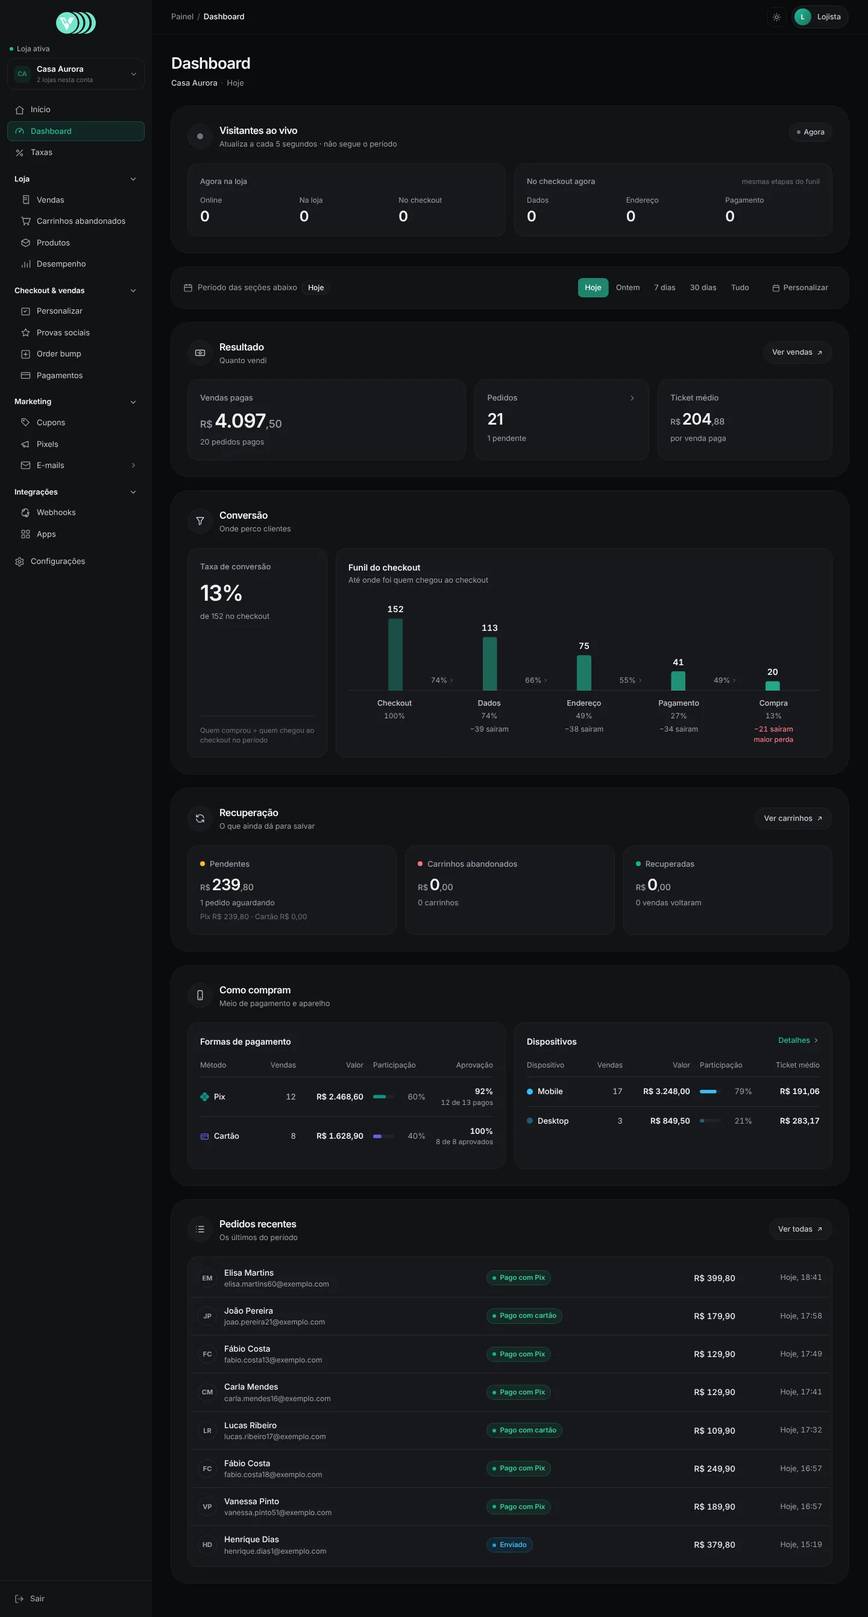
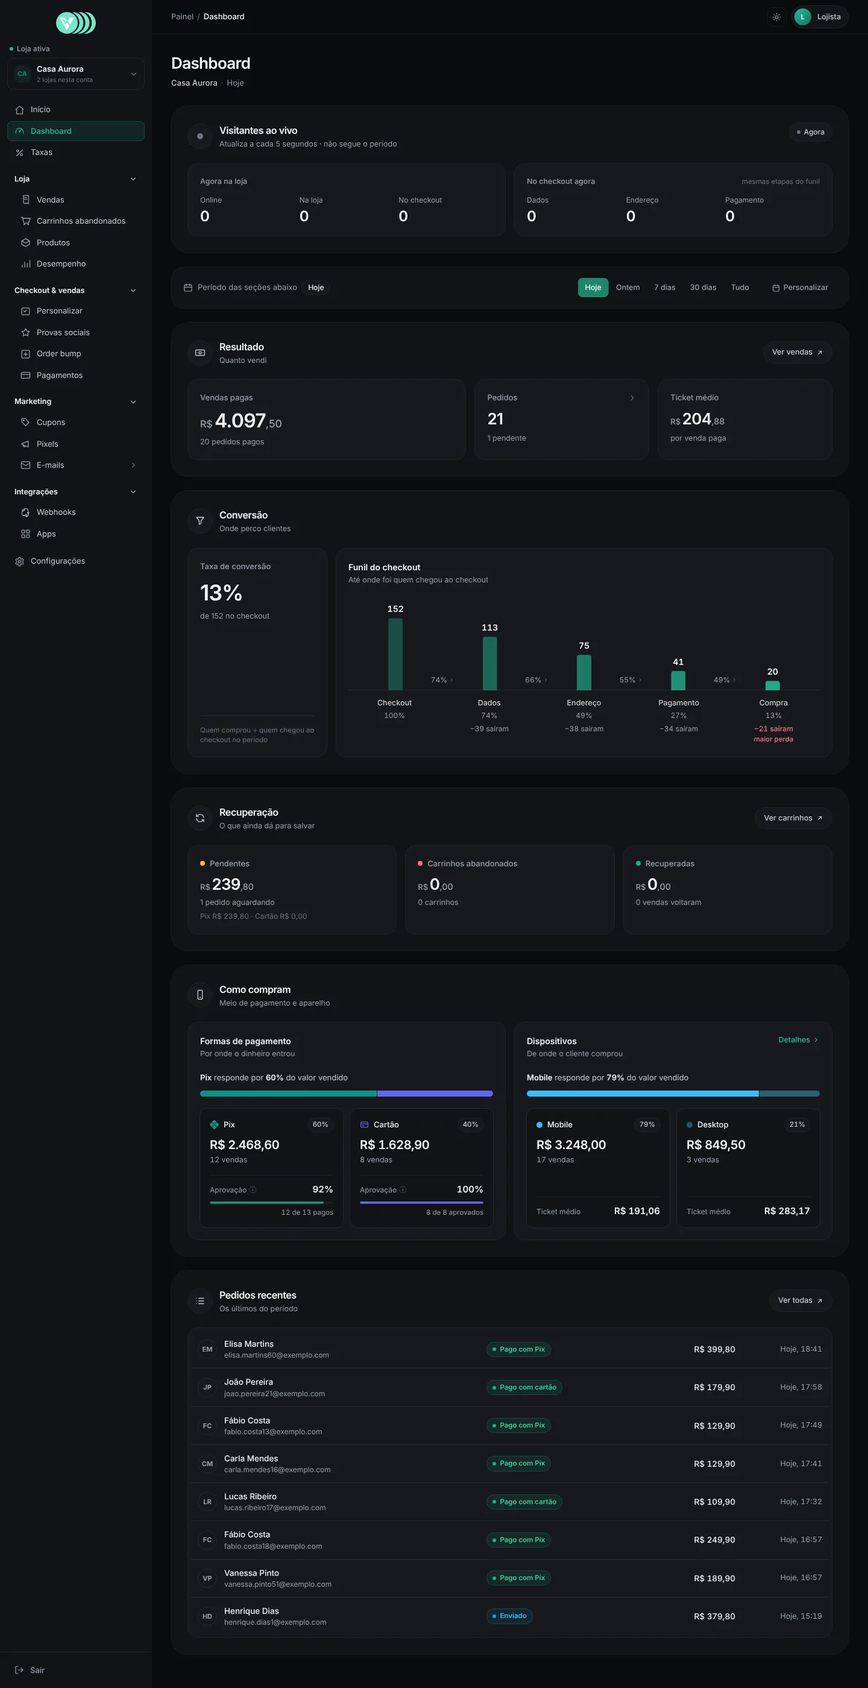
Como compram: divisão em barra de 100% e blocos por item
Formas de pagamento e Dispositivos deixam a tabela de cinco colunas:
- frase-resumo de quem lidera e barra única com a fatia de cada item
- um bloco por item: valor em destaque, vendas, fatia e o indicador
  próprio (aprovação com barrinha e nota; ticket médio)
- lado a lado só em telas largas; no notebook e no celular, empilhados

Claude-Session: https://claude.ai/code/session_01Mj6yowmnasuG43TB7WhMV6

diff --git a/index.html b/index.html
@@ -38,7 +38,7 @@ main{padding:22px 28px 60px;min-width:0}
 <main><div class="top"><h1 id="t"></h1><span class="ver" id="v" hidden></span><span class="rota" id="r"></span><div class="nav"><button id="ant">← Anterior</button><button id="prox">Próxima →</button></div></div>
 <div class="shot" id="s"><img id="i" alt=""></div><div class="dica">Telas com chave na coluna têm duas versões: ligada mostra o layout novo, desligada o antigo. Para pedir um ajuste, diga o nome da tela e o que mudar.</div></main></div>
 <script>
-const D=[{"id": "painel-dashboard", "grupo": "Painel do lojista", "titulo": "Dashboard", "rota": "/painel", "img": "telas/painel-dashboard.webp", "w": 1440, "h": 2681, "mobile": false, "antigo": {"img": "telas/painel-dashboard-antigo.webp", "w": 1440, "h": 1708}}, {"id": "painel-inicio", "grupo": "Painel do lojista", "titulo": "Início", "rota": "/painel/inicio", "img": "telas/painel-inicio.webp", "w": 1440, "h": 1024, "mobile": false}, {"id": "painel-vendas", "grupo": "Painel do lojista", "titulo": "Vendas", "rota": "/painel/vendas", "img": "telas/painel-vendas.webp", "w": 1440, "h": 1024, "mobile": false}, {"id": "painel-carrinhos", "grupo": "Painel do lojista", "titulo": "Carrinhos abandonados", "rota": "/painel/carrinhos", "img": "telas/painel-carrinhos.webp", "w": 1440, "h": 1038, "mobile": false}, {"id": "painel-desempenho", "grupo": "Painel do lojista", "titulo": "Desempenho", "rota": "/painel/desempenho", "img": "telas/painel-desempenho.webp", "w": 1440, "h": 1024, "mobile": false}, {"id": "painel-dispositivos", "grupo": "Painel do lojista", "titulo": "Dispositivos", "rota": "/painel/dispositivos", "img": "telas/painel-dispositivos.webp", "w": 1440, "h": 1024, "mobile": false}, {"id": "painel-produtos", "grupo": "Painel do lojista", "titulo": "Produtos", "rota": "/painel/produtos", "img": "telas/painel-produtos.webp", "w": 1440, "h": 1024, "mobile": false}, {"id": "painel-criptografia", "grupo": "Painel do lojista", "titulo": "Criptografia", "rota": "/painel/criptografia", "img": "telas/painel-criptografia.webp", "w": 1440, "h": 1090, "mobile": false}, {"id": "painel-cupons", "grupo": "Painel do lojista", "titulo": "Cupons", "rota": "/painel/cupons", "img": "telas/painel-cupons.webp", "w": 1440, "h": 1024, "mobile": false}, {"id": "painel-order-bump", "grupo": "Painel do lojista", "titulo": "Order bump", "rota": "/painel/order-bump", "img": "telas/painel-order-bump.webp", "w": 1440, "h": 1024, "mobile": false}, {"id": "painel-provas-sociais", "grupo": "Painel do lojista", "titulo": "Provas sociais", "rota": "/painel/provas-sociais", "img": "telas/painel-provas-sociais.webp", "w": 1440, "h": 1024, "mobile": false}, {"id": "painel-personalizar", "grupo": "Painel do lojista", "titulo": "Personalizar checkout", "rota": "/painel/personalizar", "img": "telas/painel-personalizar.webp", "w": 1440, "h": 1024, "mobile": false}, {"id": "painel-pagamentos", "grupo": "Painel do lojista", "titulo": "Pagamentos", "rota": "/painel/pagamentos", "img": "telas/painel-pagamentos.webp", "w": 1440, "h": 1419, "mobile": false}, {"id": "painel-pixels", "grupo": "Painel do lojista", "titulo": "Pixels", "rota": "/painel/pixels", "img": "telas/painel-pixels.webp", "w": 1440, "h": 1024, "mobile": false}, {"id": "painel-emails", "grupo": "Painel do lojista", "titulo": "E-mails", "rota": "/painel/emails", "img": "telas/painel-emails.webp", "w": 1440, "h": 1715, "mobile": false}, {"id": "painel-webhooks", "grupo": "Painel do lojista", "titulo": "Webhooks", "rota": "/painel/webhooks", "img": "telas/painel-webhooks.webp", "w": 1440, "h": 1024, "mobile": false}, {"id": "painel-dominio", "grupo": "Painel do lojista", "titulo": "Domínio", "rota": "/painel/dominio", "img": "telas/painel-dominio.webp", "w": 1440, "h": 1024, "mobile": false}, {"id": "painel-shopify", "grupo": "Painel do lojista", "titulo": "Shopify", "rota": "/painel/shopify", "img": "telas/painel-shopify.webp", "w": 1440, "h": 1024, "mobile": false}, {"id": "painel-apps", "grupo": "Painel do lojista", "titulo": "Apps", "rota": "/painel/apps", "img": "telas/painel-apps.webp", "w": 1440, "h": 1024, "mobile": false}, {"id": "painel-taxas", "grupo": "Painel do lojista", "titulo": "Taxas", "rota": "/painel/taxas", "img": "telas/painel-taxas.webp", "w": 1440, "h": 1024, "mobile": false}, {"id": "painel-plano", "grupo": "Painel do lojista", "titulo": "Plano", "rota": "/painel/plano", "img": "telas/painel-plano.webp", "w": 1440, "h": 1024, "mobile": false}, {"id": "painel-seguranca", "grupo": "Painel do lojista", "titulo": "Segurança", "rota": "/painel/seguranca", "img": "telas/painel-seguranca.webp", "w": 1440, "h": 2548, "mobile": false}, {"id": "painel-configuracoes", "grupo": "Painel do lojista", "titulo": "Configurações", "rota": "/painel/configuracoes", "img": "telas/painel-configuracoes.webp", "w": 1440, "h": 1024, "mobile": false}, {"id": "painel-detalhe-venda", "grupo": "Painel do lojista", "titulo": "Detalhe da venda", "rota": "/painel/vendas/101044fc-720e-4f02-a70a-a1bbfcc3d4ec", "img": "telas/painel-detalhe-venda.webp", "w": 1440, "h": 1024, "mobile": false}, {"id": "painel-caixa-de-emails", "grupo": "Painel do lojista", "titulo": "Caixa de e-mails", "rota": "/painel/emails/caixa", "img": "telas/painel-caixa-de-emails.webp", "w": 1440, "h": 1090, "mobile": false}, {"id": "admin-visao-geral", "grupo": "Admin da plataforma", "titulo": "Visão geral", "rota": "/admin", "img": "telas/admin-inicio.webp", "w": 1440, "h": 1430, "mobile": false}, {"id": "admin-lojas", "grupo": "Admin da plataforma", "titulo": "Lojas", "rota": "/admin/lojas", "img": "telas/admin-lojas.webp", "w": 1440, "h": 900, "mobile": false}, {"id": "admin-usuarios", "grupo": "Admin da plataforma", "titulo": "Usuários", "rota": "/admin/usuarios", "img": "telas/admin-usuarios.webp", "w": 1440, "h": 900, "mobile": false}, {"id": "admin-clientes", "grupo": "Admin da plataforma", "titulo": "Clientes", "rota": "/admin/clientes", "img": "telas/admin-clientes.webp", "w": 1440, "h": 1958, "mobile": false}, {"id": "admin-transacoes", "grupo": "Admin da plataforma", "titulo": "Transações", "rota": "/admin/transacoes", "img": "telas/admin-transacoes.webp", "w": 1440, "h": 1994, "mobile": false}, {"id": "admin-taxas", "grupo": "Admin da plataforma", "titulo": "Taxas", "rota": "/admin/taxas", "img": "telas/admin-taxas.webp", "w": 1440, "h": 900, "mobile": false}, {"id": "admin-assinaturas", "grupo": "Admin da plataforma", "titulo": "Assinaturas", "rota": "/admin/assinaturas", "img": "telas/admin-assinaturas.webp", "w": 1440, "h": 900, "mobile": false}, {"id": "admin-relatorios", "grupo": "Admin da plataforma", "titulo": "Relatórios", "rota": "/admin/relatorios", "img": "telas/admin-relatorios.webp", "w": 1440, "h": 907, "mobile": false}, {"id": "admin-emails", "grupo": "Admin da plataforma", "titulo": "E-mails", "rota": "/admin/emails", "img": "telas/admin-emails.webp", "w": 1440, "h": 900, "mobile": false}, {"id": "admin-configuracoes", "grupo": "Admin da plataforma", "titulo": "Configurações", "rota": "/admin/configuracoes", "img": "telas/admin-configuracoes.webp", "w": 1440, "h": 1286, "mobile": false}, {"id": "celular-dashboard", "grupo": "Painel no celular", "titulo": "Dashboard", "rota": "/painel", "img": "telas/celular-dashboard.webp", "w": 390, "h": 3775, "mobile": true, "antigo": {"img": "telas/celular-dashboard-antigo.webp", "w": 390, "h": 2945}}, {"id": "celular-inicio", "grupo": "Painel no celular", "titulo": "Início", "rota": "/painel/inicio", "img": "telas/celular-inicio.webp", "w": 390, "h": 2208, "mobile": true}, {"id": "celular-vendas", "grupo": "Painel no celular", "titulo": "Vendas", "rota": "/painel/vendas", "img": "telas/celular-vendas.webp", "w": 390, "h": 1410, "mobile": true}, {"id": "acesso-login", "grupo": "Acesso", "titulo": "Login", "rota": "/login", "img": "telas/acesso-login.webp", "w": 1440, "h": 900, "mobile": false}];
+const D=[{"id": "painel-dashboard", "grupo": "Painel do lojista", "titulo": "Dashboard", "rota": "/painel", "img": "telas/painel-dashboard.webp", "w": 1440, "h": 2800, "mobile": false, "antigo": {"img": "telas/painel-dashboard-antigo.webp", "w": 1440, "h": 1708}}, {"id": "painel-inicio", "grupo": "Painel do lojista", "titulo": "Início", "rota": "/painel/inicio", "img": "telas/painel-inicio.webp", "w": 1440, "h": 1024, "mobile": false}, {"id": "painel-vendas", "grupo": "Painel do lojista", "titulo": "Vendas", "rota": "/painel/vendas", "img": "telas/painel-vendas.webp", "w": 1440, "h": 1024, "mobile": false}, {"id": "painel-carrinhos", "grupo": "Painel do lojista", "titulo": "Carrinhos abandonados", "rota": "/painel/carrinhos", "img": "telas/painel-carrinhos.webp", "w": 1440, "h": 1038, "mobile": false}, {"id": "painel-desempenho", "grupo": "Painel do lojista", "titulo": "Desempenho", "rota": "/painel/desempenho", "img": "telas/painel-desempenho.webp", "w": 1440, "h": 1024, "mobile": false}, {"id": "painel-dispositivos", "grupo": "Painel do lojista", "titulo": "Dispositivos", "rota": "/painel/dispositivos", "img": "telas/painel-dispositivos.webp", "w": 1440, "h": 1024, "mobile": false}, {"id": "painel-produtos", "grupo": "Painel do lojista", "titulo": "Produtos", "rota": "/painel/produtos", "img": "telas/painel-produtos.webp", "w": 1440, "h": 1024, "mobile": false}, {"id": "painel-criptografia", "grupo": "Painel do lojista", "titulo": "Criptografia", "rota": "/painel/criptografia", "img": "telas/painel-criptografia.webp", "w": 1440, "h": 1090, "mobile": false}, {"id": "painel-cupons", "grupo": "Painel do lojista", "titulo": "Cupons", "rota": "/painel/cupons", "img": "telas/painel-cupons.webp", "w": 1440, "h": 1024, "mobile": false}, {"id": "painel-order-bump", "grupo": "Painel do lojista", "titulo": "Order bump", "rota": "/painel/order-bump", "img": "telas/painel-order-bump.webp", "w": 1440, "h": 1024, "mobile": false}, {"id": "painel-provas-sociais", "grupo": "Painel do lojista", "titulo": "Provas sociais", "rota": "/painel/provas-sociais", "img": "telas/painel-provas-sociais.webp", "w": 1440, "h": 1024, "mobile": false}, {"id": "painel-personalizar", "grupo": "Painel do lojista", "titulo": "Personalizar checkout", "rota": "/painel/personalizar", "img": "telas/painel-personalizar.webp", "w": 1440, "h": 1024, "mobile": false}, {"id": "painel-pagamentos", "grupo": "Painel do lojista", "titulo": "Pagamentos", "rota": "/painel/pagamentos", "img": "telas/painel-pagamentos.webp", "w": 1440, "h": 1419, "mobile": false}, {"id": "painel-pixels", "grupo": "Painel do lojista", "titulo": "Pixels", "rota": "/painel/pixels", "img": "telas/painel-pixels.webp", "w": 1440, "h": 1024, "mobile": false}, {"id": "painel-emails", "grupo": "Painel do lojista", "titulo": "E-mails", "rota": "/painel/emails", "img": "telas/painel-emails.webp", "w": 1440, "h": 1715, "mobile": false}, {"id": "painel-webhooks", "grupo": "Painel do lojista", "titulo": "Webhooks", "rota": "/painel/webhooks", "img": "telas/painel-webhooks.webp", "w": 1440, "h": 1024, "mobile": false}, {"id": "painel-dominio", "grupo": "Painel do lojista", "titulo": "Domínio", "rota": "/painel/dominio", "img": "telas/painel-dominio.webp", "w": 1440, "h": 1024, "mobile": false}, {"id": "painel-shopify", "grupo": "Painel do lojista", "titulo": "Shopify", "rota": "/painel/shopify", "img": "telas/painel-shopify.webp", "w": 1440, "h": 1024, "mobile": false}, {"id": "painel-apps", "grupo": "Painel do lojista", "titulo": "Apps", "rota": "/painel/apps", "img": "telas/painel-apps.webp", "w": 1440, "h": 1024, "mobile": false}, {"id": "painel-taxas", "grupo": "Painel do lojista", "titulo": "Taxas", "rota": "/painel/taxas", "img": "telas/painel-taxas.webp", "w": 1440, "h": 1024, "mobile": false}, {"id": "painel-plano", "grupo": "Painel do lojista", "titulo": "Plano", "rota": "/painel/plano", "img": "telas/painel-plano.webp", "w": 1440, "h": 1024, "mobile": false}, {"id": "painel-seguranca", "grupo": "Painel do lojista", "titulo": "Segurança", "rota": "/painel/seguranca", "img": "telas/painel-seguranca.webp", "w": 1440, "h": 2548, "mobile": false}, {"id": "painel-configuracoes", "grupo": "Painel do lojista", "titulo": "Configurações", "rota": "/painel/configuracoes", "img": "telas/painel-configuracoes.webp", "w": 1440, "h": 1024, "mobile": false}, {"id": "painel-detalhe-venda", "grupo": "Painel do lojista", "titulo": "Detalhe da venda", "rota": "/painel/vendas/101044fc-720e-4f02-a70a-a1bbfcc3d4ec", "img": "telas/painel-detalhe-venda.webp", "w": 1440, "h": 1024, "mobile": false}, {"id": "painel-caixa-de-emails", "grupo": "Painel do lojista", "titulo": "Caixa de e-mails", "rota": "/painel/emails/caixa", "img": "telas/painel-caixa-de-emails.webp", "w": 1440, "h": 1090, "mobile": false}, {"id": "admin-visao-geral", "grupo": "Admin da plataforma", "titulo": "Visão geral", "rota": "/admin", "img": "telas/admin-inicio.webp", "w": 1440, "h": 1430, "mobile": false}, {"id": "admin-lojas", "grupo": "Admin da plataforma", "titulo": "Lojas", "rota": "/admin/lojas", "img": "telas/admin-lojas.webp", "w": 1440, "h": 900, "mobile": false}, {"id": "admin-usuarios", "grupo": "Admin da plataforma", "titulo": "Usuários", "rota": "/admin/usuarios", "img": "telas/admin-usuarios.webp", "w": 1440, "h": 900, "mobile": false}, {"id": "admin-clientes", "grupo": "Admin da plataforma", "titulo": "Clientes", "rota": "/admin/clientes", "img": "telas/admin-clientes.webp", "w": 1440, "h": 1958, "mobile": false}, {"id": "admin-transacoes", "grupo": "Admin da plataforma", "titulo": "Transações", "rota": "/admin/transacoes", "img": "telas/admin-transacoes.webp", "w": 1440, "h": 1994, "mobile": false}, {"id": "admin-taxas", "grupo": "Admin da plataforma", "titulo": "Taxas", "rota": "/admin/taxas", "img": "telas/admin-taxas.webp", "w": 1440, "h": 900, "mobile": false}, {"id": "admin-assinaturas", "grupo": "Admin da plataforma", "titulo": "Assinaturas", "rota": "/admin/assinaturas", "img": "telas/admin-assinaturas.webp", "w": 1440, "h": 900, "mobile": false}, {"id": "admin-relatorios", "grupo": "Admin da plataforma", "titulo": "Relatórios", "rota": "/admin/relatorios", "img": "telas/admin-relatorios.webp", "w": 1440, "h": 907, "mobile": false}, {"id": "admin-emails", "grupo": "Admin da plataforma", "titulo": "E-mails", "rota": "/admin/emails", "img": "telas/admin-emails.webp", "w": 1440, "h": 900, "mobile": false}, {"id": "admin-configuracoes", "grupo": "Admin da plataforma", "titulo": "Configurações", "rota": "/admin/configuracoes", "img": "telas/admin-configuracoes.webp", "w": 1440, "h": 1286, "mobile": false}, {"id": "celular-dashboard", "grupo": "Painel no celular", "titulo": "Dashboard", "rota": "/painel", "img": "telas/celular-dashboard.webp", "w": 390, "h": 4341, "mobile": true, "antigo": {"img": "telas/celular-dashboard-antigo.webp", "w": 390, "h": 2945}}, {"id": "celular-inicio", "grupo": "Painel no celular", "titulo": "Início", "rota": "/painel/inicio", "img": "telas/celular-inicio.webp", "w": 390, "h": 2208, "mobile": true}, {"id": "celular-vendas", "grupo": "Painel no celular", "titulo": "Vendas", "rota": "/painel/vendas", "img": "telas/celular-vendas.webp", "w": 390, "h": 1410, "mobile": true}, {"id": "acesso-login", "grupo": "Acesso", "titulo": "Login", "rota": "/login", "img": "telas/acesso-login.webp", "w": 1440, "h": 900, "mobile": false}];
 const st={};D.forEach(d=>{if(d.antigo)st[d.id]=true});
 try{const s=JSON.parse(localStorage.getItem('voxdash-layout')||'{}');for(const k in s)if(k in st)st[k]=!!s[k]}catch(e){}
 function save(){try{localStorage.setItem('voxdash-layout',JSON.stringify(st))}catch(e){}}

diff --git a/src/components/painel/dashboard/Viz.tsx b/src/components/painel/dashboard/Viz.tsx
@@ -117,6 +117,106 @@ export function Breakdown({
     </div>
   );
 }
+export type SplitRow = Part & {
+  /** Indicador próprio de cada item (aprovação, ticket médio...). */
+  metric: React.ReactNode;
+  metricNote?: string;
+  metricHint?: string;
+  /** 0–1: desenha uma barrinha sob o indicador (ex.: taxa de aprovação). */
+  metricRate?: number | null;
+};
+
+/**
+ * Divisão em DUAS partes (Pix × Cartão, Mobile × Desktop): uma barra única de
+ * 100% mostra a fatia de cada um no valor vendido, com uma frase que resume
+ * quem lidera. Embaixo, um bloco por item com o valor em destaque, as vendas,
+ * a fatia e o indicador próprio de cada cartão — sem tabela de cinco colunas.
+ */
+export function Split({ rows, metricLabel, empty }: { rows: SplitRow[]; metricLabel: string; empty: string }) {
+  const total = rows.reduce((s, r) => s + r.cents, 0);
+  const shareOf = (r: SplitRow) => (total > 0 ? (r.cents / total) * 100 : 0);
+  const leader = total > 0 ? rows.reduce((a, b) => (b.cents > a.cents ? b : a)) : null;
+  let left = 0;
+  return (
+    <div className="flex min-w-0 flex-1 flex-col">
+      <p className="text-[13px] text-mid">
+        {leader ? (
+          <>
+            <span className="font-semibold text-hi">{leader.label}</span> responde por{" "}
+            <span className="font-semibold tabular-nums text-hi">{Math.round(shareOf(leader))}%</span> do valor vendido
+          </>
+        ) : (
+          empty
+        )}
+      </p>
+
+      {/* Barra de 100%: cada segmento é a fatia do item no valor. */}
+      <div aria-hidden className="relative mt-3 h-2.5 overflow-hidden rounded-full bg-hover">
+        {total > 0 &&
+          rows.map((r) => {
+            const w = shareOf(r);
+            const seg = (
+              <span
+                key={r.label}
+                className="absolute inset-y-0 transition-[left,width] duration-[420ms] ease-fluid"
+                style={{ left: `calc(${left}% + ${left > 0 ? 1 : 0}px)`, width: `calc(${w}% - ${left > 0 ? 1 : 0}px)`, background: r.color }}
+              />
+            );
+            left += w;
+            return seg;
+          })}
+      </div>
+
+      <div className="mt-5 grid flex-1 grid-cols-1 gap-3 sm:grid-cols-2">
+        {rows.map((r) => {
+          const dot = r.icon ?? <span aria-hidden className="h-2.5 w-2.5 shrink-0 rounded-full" style={{ background: r.color }} />;
+          const rate = r.metricRate == null ? null : clamp(r.metricRate * 100);
+          return (
+            <div key={r.label} className="flex min-w-0 flex-col rounded-xl bg-card p-4 ring-1 ring-line">
+              <div className="flex items-center justify-between gap-2">
+                <span className="flex min-w-0 items-center gap-2">
+                  {dot}
+                  <span className="truncate text-[13px] font-medium text-hi">{r.label}</span>
+                </span>
+                <span className="shrink-0 rounded-full bg-soft px-2 py-0.5 text-[11.5px] font-medium tabular-nums text-mid ring-1 ring-line">
+                  {total > 0 ? <AnimatedNumber value={shareOf(r)} format="pct" /> : "—"}
+                </span>
+              </div>
+              <div className="mt-3 whitespace-nowrap text-[20px] font-semibold leading-none tracking-[-0.02em] tabular-nums text-hi">
+                <AnimatedNumber value={r.cents} format="brl" />
+              </div>
+              <div className="mt-1.5 text-[12.5px] tabular-nums text-low">
+                <AnimatedNumber value={r.count} /> {r.count === 1 ? "venda" : "vendas"}
+              </div>
+
+              <div className="mt-auto pt-4">
+                <div className="border-t border-line pt-3" title={r.metricHint}>
+                  <div className="flex items-baseline justify-between gap-2">
+                    <span className="whitespace-nowrap text-[12px] text-low">
+                      {metricLabel}
+                      {r.metricHint && <span aria-hidden className="ml-1 text-dim">ⓘ</span>}
+                    </span>
+                    <span className="whitespace-nowrap text-[15px] font-semibold tabular-nums text-hi">{r.metric}</span>
+                  </div>
+                  {rate !== null && (
+                    <span aria-hidden className="relative mt-2 block h-1 overflow-hidden rounded-full bg-hover">
+                      <span
+                        className={`absolute inset-0 ${BAR_MOTION}`}
+                        style={{ background: r.color, clipPath: `inset(0 ${clamp(100 - rate)}% 0 0 round 999px)` }}
+                      />
+                    </span>
+                  )}
+                  {r.metricNote && <p className="mt-1.5 text-right text-[11.5px] tabular-nums text-low">{r.metricNote}</p>}
+                </div>
+              </div>
+            </div>
+          );
+        })}
+      </div>
+    </div>
+  );
+}
+
 export type FunnelStage = {
   label: string;
   /** Nome curto para a coluna ("Dados", "Compra"); o `label` completo vai na dica e na tabela. */

diff --git a/src/components/painel/dashboard/DashboardView.tsx b/src/components/painel/dashboard/DashboardView.tsx
@@ -3,7 +3,7 @@ import Link from "next/link";
 import AnimatedNumber from "./AnimatedNumber";
 import { PeriodTransition, PendingArea } from "./PeriodTransition";
 import PeriodControl from "./PeriodControl";
-import { Breakdown, Funnel, TextLink, type FunnelStage } from "./Viz";
+import { Funnel, Split, TextLink, type FunnelStage } from "./Viz";
 import RecentOrders, { type RecentOrder } from "./RecentOrders";
 import LiveVisitors from "@/components/painel/LiveVisitors";
 import ReconcileOnMount from "@/components/painel/ReconcileOnMount";
@@ -171,22 +171,24 @@ export default function DashboardView({ data }: { data: DashboardData }) {
         <Box icon="device" title="Como compram" question="Meio de pagamento e aparelho">
           <PendingArea>
             <div className="grid gap-4 xl:grid-cols-2">
-              <Card title="Formas de pagamento">
-                <Breakdown
-                  firstLabel="Método"
-                  lastLabel="Aprovação"
+              <Card title="Formas de pagamento" subtitle="Por onde o dinheiro entrou">
+                <Split
+                  metricLabel="Aprovação"
+                  empty="Nenhuma venda paga no período."
                   rows={[
                     {
                       ...pix,
-                      last: pixRate === null ? "—" : <AnimatedNumber value={pixRate * 100} format="pct" />,
-                      lastNote: ap.pixTotal > 0 ? `${ap.pixPaid} de ${ap.pixTotal} pagos` : "sem Pix",
-                      lastHint: "Pix pagos ÷ Pix gerados no período",
+                      metric: pixRate === null ? "—" : <AnimatedNumber value={pixRate * 100} format="pct" />,
+                      metricRate: pixRate,
+                      metricNote: ap.pixTotal > 0 ? `${ap.pixPaid} de ${ap.pixTotal} pagos` : "sem Pix",
+                      metricHint: "Pix pagos ÷ Pix gerados no período",
                     },
                     {
                       ...card,
-                      last: cardRate === null ? "—" : <AnimatedNumber value={cardRate * 100} format="pct" />,
-                      lastNote: ap.cardDecided > 0 ? `${ap.cardApproved} de ${ap.cardDecided} aprovados` : "sem cartão",
-                      lastHint: "Aprovados ÷ decididos (aprovados + recusados). Cartão em análise não entra.",
+                      metric: cardRate === null ? "—" : <AnimatedNumber value={cardRate * 100} format="pct" />,
+                      metricRate: cardRate,
+                      metricNote: ap.cardDecided > 0 ? `${ap.cardApproved} de ${ap.cardDecided} aprovados` : "sem cartão",
+                      metricHint: "Aprovados ÷ decididos (aprovados + recusados). Cartão em análise não entra.",
                     },
                   ]}
                 />
@@ -194,13 +196,13 @@ export default function DashboardView({ data }: { data: DashboardData }) {
 
               {/* Tablet entra em Mobile, e pedidos anteriores ao registro de
                   dispositivo ficam de fora — mesma regra da tela cheia. */}
-              <Card title="Dispositivos" link={{ href: "/painel/dispositivos", label: "Detalhes" }}>
-                <Breakdown
-                  firstLabel="Dispositivo"
-                  lastLabel="Ticket médio"
+              <Card title="Dispositivos" subtitle="De onde o cliente comprou" link={{ href: "/painel/dispositivos", label: "Detalhes" }}>
+                <Split
+                  metricLabel="Ticket médio"
+                  empty="Nenhuma venda paga no período."
                   rows={[
-                    { ...mobile, last: ticketMobile === null ? "—" : <AnimatedNumber value={ticketMobile} format="brl" /> },
-                    { ...desktop, last: ticketDesktop === null ? "—" : <AnimatedNumber value={ticketDesktop} format="brl" /> },
+                    { ...mobile, metric: ticketMobile === null ? "—" : <AnimatedNumber value={ticketMobile} format="brl" /> },
+                    { ...desktop, metric: ticketDesktop === null ? "—" : <AnimatedNumber value={ticketDesktop} format="brl" /> },
                   ]}
                 />
               </Card>
